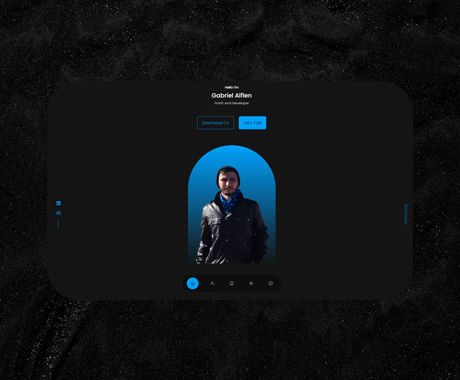
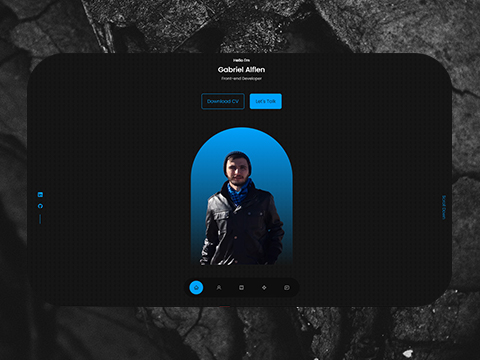
Update navBar

diff --git a/src/components/nav/Nav.jsx b/src/components/nav/Nav.jsx
@@ -5,18 +5,34 @@ import {AiOutlineUser} from 'react-icons/ai'
 import {BiBook} from 'react-icons/bi'
 import {TbComponents} from 'react-icons/tb'
 import {BiMessageSquareDetail} from 'react-icons/bi'
-import { useState } from 'react'
+import {Link} from 'react-scroll'
 
 const Nav = () => {
-  const [activeNav, setActiveNav] = useState('#')
+
   return (
     <nav>
-      <a href="#" onClick={() => setActiveNav('#')}
-      className={activeNav === '#' ? 'active' : ''}><AiOutlineHome /></a>
-      <a href="#about" onClick={() => setActiveNav('#about')} className={activeNav === '#about' ? 'active' : ''}><AiOutlineUser /></a>
-      <a href="#experience" onClick={() => setActiveNav('#experience')} className={activeNav === '#experience' ? 'active' : ''}><BiBook /></a>
-      <a href="#portfolio" onClick={() => setActiveNav('#portfolio')} className={activeNav === '#portfolio' ? 'active' : ''}><TbComponents /></a>
-      <a href="#contact" onClick={() => setActiveNav('#contact')} className={activeNav === '#contact' ? 'active' : ''}><BiMessageSquareDetail /></a>
+      <ul>
+      <li className='nav-item'>
+      <Link to="Header" spy={true} smooth={true} offset={-40} duration={100}>
+	    <AiOutlineHome />
+      </Link></li>
+      <li className='nav-item'>
+      <Link to="About" spy={true} smooth={true} offset={-40} duration={100}>
+	    <AiOutlineUser />
+      </Link></li>
+      <li className='nav-item'>
+      <Link to="Experience" spy={true} smooth={true} offset={-40} duration={100}>
+	    <BiBook />
+      </Link></li>
+      <li className='nav-item'>
+      <Link to="Portfolio" spy={true} smooth={true} offset={-40} duration={100}>
+	    <TbComponents />
+      </Link></li>
+      <li className='nav-item'>
+      <Link to="Contact" spy={true} smooth={true} offset={-60} duration={100}>
+	    <BiMessageSquareDetail />
+      </Link></li>
+      </ul>
     </nav>
   )
 }

diff --git a/src/components/about/About.jsx b/src/components/about/About.jsx
@@ -7,7 +7,7 @@ import {ImMobile} from 'react-icons/im'
 
 const About = () => {
   return (
-    <section id='about'>
+    <section id='About'>
       <h5>Get To Know</h5>
       <h2>About me</h2>
 
@@ -39,7 +39,10 @@ const About = () => {
             </article>
           </div>
           <p>
-            Lorem ipsum dolor sit amet consectetur adipisicing elit. Repudiandae maxime vitae dolorum voluptate, repellendus earum ratione repellat quidem doloremque nisi, architecto maiores? Ad itaque corporis laboriosam ea reprehenderit debitis sit?
+          Front-End Developer with experience in create and maintain a better code base for reusability. Capable of continuous learning from senior developers facilitating projects from concept to launch. passionate about learning and development. Eager to tackle more complex problems and continue to find ways to maximize efficiency.
+          </p>
+          <p>
+          (PT-BR) Desenvolvedor Front-End com experiência em criar e manter uma base de código para reusabilidade. Capaz de aprender continuamente com senior developers, facilitando projetos desde o conceito até o lançamento. apaixonado por aprendizado e desenvolvimento. Ansioso para resolver problemas mais complexos e continuar a encontrar maneiras de maximizar a eficiência.
           </p>
 
           <a href="#contact" className='btn btn-primary'>Let's Talk</a>

diff --git a/src/App.jsx b/src/App.jsx
@@ -1,4 +1,4 @@
-import React from 'react'
+import React, {useEffect, useState} from 'react'
 import Footer from './components/footer/Footer'
 import Header from './components/header/Header'
 import Nav from './components/nav/Nav'
@@ -7,17 +7,31 @@ import Experience from './components/experience/Experience'
 import Portfolio from './components/portfolio/Portfolio'
 import Contact from './components/contact/Contact'
 
-
 const App = () => {
+
+  useEffect(() => {
+    const handleScroll = event => {
+      console.log('window.scrollY', window.scrollY);
+    };
+
+    window.addEventListener('scroll', handleScroll);
+
+    return () => {
+      window.removeEventListener('scroll', handleScroll);
+    };
+  }, []);
+
   return (
     <>
+      <div className='sections'>
         <Header />
-        <Nav />
         <About />
         <Experience />
         <Portfolio />
-        <Contact />
-        <Footer />
+        <Contact /> 
+      </div>
+      <Nav/>
+      <Footer />
     </>
   )
 }

diff --git a/src/components/contact/contact.css b/src/components/contact/contact.css
@@ -22,7 +22,7 @@
 
 .contact__option:hover {
     background: transparent;
-    border: var(--color-primary-variant);
+    border-color: var(--color-primary-variant);
 }
 
 .contact__option-icon {
@@ -46,6 +46,7 @@ form {
 }
 
 input, textarea {
+    font-family: 'Poppins', sans-serif;
     width: 100%;
     padding: 1.5rem;
     border-radius: 0.5rem;
@@ -53,6 +54,14 @@ input, textarea {
     border: 2px solid var(--color-primary-variant);
     resize: none;
     color: var(--color-white);
+}
+
+input:focus::-webkit-input-placeholder{
+    color: transparent;
+}
+
+textarea:focus::-webkit-input-placeholder{
+    color: transparent;
 }
 
 @media screen and (max-width: 1024px){

diff --git a/src/components/footer/Footer.jsx b/src/components/footer/Footer.jsx
@@ -11,10 +11,10 @@ const Footer = () => {
 
       <ul className='permalinks'>
         <li><a href="#">Home</a></li>
-        <li><a href="#about">About</a></li>
-        <li><a href="#experience">Experience</a></li>
-        <li><a href="#portfolio">Portfolio</a></li>
-        <li><a href="#contacts">Contacts</a></li>
+        <li><a href="#About">About</a></li>
+        <li><a href="#Experience">Experience</a></li>
+        <li><a href="#Portfolio">Portfolio</a></li>
+        <li><a href="#Contacts">Contact</a></li>
       </ul>
 
       <div className="footer__socials">

diff --git a/src/components/header/Header.jsx b/src/components/header/Header.jsx
@@ -6,7 +6,7 @@ import HeaderSocials from './HeaderSocials'
 
 const Header = () => {
   return (
-    <header>
+    <header id='Header'>
     <div className="container header__container">
     <h5>Hello I'm</h5>
     <h2>Gabriel Alflen</h2>
@@ -18,7 +18,7 @@ const Header = () => {
       <img src={ME} alt="me" />
     </div>
 
-    <a href="#contact" className='scroll__down'>Scroll Down</a>
+    <a href="#Contact" className='scroll__down'>Scroll Down</a>
     </div>
     </header>
   )

diff --git a/src/index.css b/src/index.css
@@ -58,8 +58,17 @@ h1 {
     font-size: 2.5rem;
 }
 
+ul {
+    list-style: none;
+    display: flex;
+}
+
+.sections > * {
+    padding-top: 8rem;
+}
+
 section {
-    margin-top: 8rem;
+    margin-top: 4rem;
 }
 
 section > h2,
@@ -75,6 +84,15 @@ section h2 {
 
 .text-light {
     color: var(--color-light);
+}
+
+link {
+    color: var(--color-primary);
+    transition: var(--transition);
+}
+
+link:hover {
+    color: var(--color-white);
 }
 
 a {

diff --git a/src/components/portfolio/Portfolio.jsx b/src/components/portfolio/Portfolio.jsx
@@ -8,7 +8,7 @@ const data = [
     id: 1,
     image: IMG1,
     title: 'React Personal Portfolio',
-    github: 'http://github.com/',
+    github: 'https://github.com/AlflenGabriel/personalPortfolio',
     demo: '#'
   },
   {
@@ -50,7 +50,7 @@ const data = [
 
 const Portfolio = () => {
   return (
-    <section id='portfolio'>
+    <section id='Portfolio'>
       <h5>My Recent Work</h5>
       <h2>Portfolio</h2>
 

diff --git a/src/components/header/header.css b/src/components/header/header.css
@@ -50,16 +50,10 @@ header {
 .scroll__down {
     position: absolute;
     right: -2.3rem;
-    bottom: 20.8rem;
+    bottom: 20.5rem;
     transform: rotate(90deg);
     font-weight: 300;
     font-size: 0.9rem;
-}
-
-@media screen and (max-width: 1024px){
-    header {
-        height: 68vh;
-    }
 }
 
 @media screen and (max-width: 600px){

diff --git a/src/components/header/CTA.jsx b/src/components/header/CTA.jsx
@@ -5,7 +5,7 @@ const CTA = () => {
   return (
     <div className='cta'>
         <a href={CV} download className='btn'>Download CV</a>
-        <a href="#contact" className='btn btn-primary'>Let's Talk</a>
+        <a href="#Contact" className='btn btn-primary'>Let's Talk</a>
     </div>
   )
 }

diff --git a/src/components/experience/Experience.jsx b/src/components/experience/Experience.jsx
@@ -4,7 +4,7 @@ import {BsPatchCheckFill} from 'react-icons/bs'
 
 const Experience = () => {
   return (
-    <section id='experience'>
+    <section id='Experience'>
       <h5>What Skills I Have</h5>
       <h2>My Experience</h2>
 

diff --git a/src/utils/utils.js b/src/utils/utils.js
@@ -1,0 +1,6 @@
+const scrollToId = (id, updateHash = true) => {
+    document.getElementById(id).scrollIntoView({ behavior: "smooth" })
+    if(updateHash) window.location.hash = id
+  }
+  
+  export { scrollToId }
